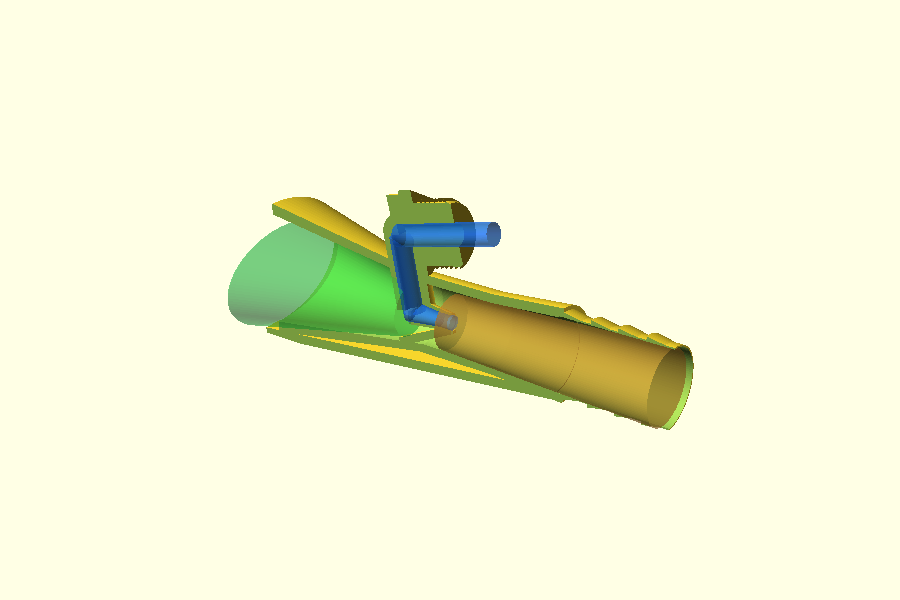
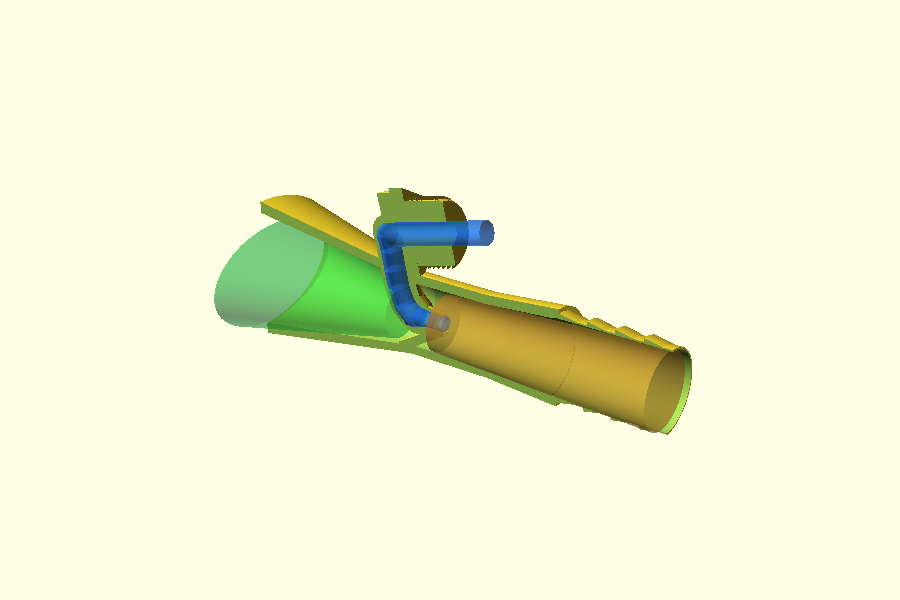
Switch X1C package to vertical no-skid print

Changed region(s): [[0.2178, 0.3, 0.7778, 0.72]]

diff --git a/DESIGN_REVIEW.md b/DESIGN_REVIEW.md
@@ -13,9 +13,10 @@ Generated outputs:
 OpenSCAD export:
 
 - OpenSCAD version: `2021.01`
-- Default STL triangles: `19756`
-- Bounding box: about `187.0 mm x 84.8 mm x 80.0 mm`
-- Estimated model volume from STL: about `98.5 cm3`
+- Default STL triangles: `27908`
+- Source-model bounding box: about `180.1 mm x 84.8 mm x 77.6 mm`
+- X1C 3MF vertical print bounds: about `84.8 mm x 77.6 mm x 180.1 mm`
+- Estimated model volume from STL: about `90.0 cm3`
 - Non-manifold edges: `0` in the regenerated STL variants and Bambu 3MF
 - Connected mesh components: `1`
 - OpenSCAD export completed without warnings
@@ -29,6 +30,7 @@ Iteration review:
 | V3 | `76 x 48 mm` mouth, `26 mm` throat, `31 mm` outlet, low rearward hose boss, `5.8 mm` recommended jet | Kept a large sand opening while increasing throat velocity and keeping the garden hose angled up/rearward away from the sand bed. |
 | V4 | Replaced the wide bottom plate with a narrow center skid, added a thin printable keel under the internal jet, and strengthened the garden-hose thread | Addresses the first print failure where the center jet printed as unsupported spaghetti and the hose thread did not survive visibly. |
 | V5 | Tightened the hose-thread dimensions to a print-fit `26.9 mm` major diameter and corrected the Bambu 3MF PETG profile metadata | Keeps the visible printable thread while avoiding an oversized male fitting, and prevents the 3MF from importing with PLA temperatures. |
+| V6 | Disabled the bottom skid by default, changed the X1C 3MF to vertical mouth-down printing, and replaced the hard pressure-feed turn with a smoother curved feed | Removes the unwanted bottom plate, minimizes support needs, and makes the pressure-water path less abrupt. |
 
 Flow path check:
 
@@ -37,7 +39,7 @@ Flow path check:
 - The flow converges into a `26 mm` suction throat with area about `531 mm2`.
 - Mouth-to-throat area ratio is about `5.4:1`, so the mouth resists clogging while the throat keeps slurry velocity high.
 - Pressure water enters through a low-profile garden-hose boss angled about `14 degrees` upward from the body axis toward the exhaust side.
-- The feed turns down to a plenum and exits through a downstream-facing jet on the centerline of the throat.
+- The feed now follows a smoother curved path into the plenum and exits through a downstream-facing jet on the centerline of the throat.
 - The `7.4 mm` nozzle tip leaves about `488 mm2` of annular suction area in the `26 mm` throat.
 - The lower printable keel under the jet is estimated to occupy about `29 mm2`, leaving about `459 mm2` of annular slurry area around the jet tip.
 - The outlet diffuses to `31 mm` and then into the nominal `1-1/4 in.` exhaust barb.
@@ -67,15 +69,14 @@ The hose connector is now low and rearward/upward, closer to the original part. 
 
 Printability review:
 
-- Print with the narrow center skid on the build plate.
-- Do not use slicer auto-orient if it stands the part upright at about `187 mm` tall. That orientation puts the exhaust path vertical; the intended print orientation is the low `187 x 85 x 80 mm` skid-down footprint.
+- Print vertically with the large pickup mouth on the build plate and the exhaust barb upward.
+- Do not use slicer auto-orient if it changes this mouth-down orientation; the intended 3MF bounds are about `85 x 78 x 180 mm`.
 - Use PETG, ASA, or ABS. Avoid PLA for hot sun and threaded hose stress.
 - Use at least `5` walls, `6` top/bottom layers, and `40-60%` infill.
-- The X1C 3MF is encoded for Bambu PETG Basic, `255 C` nozzle / `245 C` first layer, `70 C` textured PEI bed, `6` walls, `7` top/bottom layers, `45%` gyroid infill, `5 mm` brim, and build-plate-only tree supports.
-- Avoid internal supports in the slurry path or water jet path.
-- If the slicer insists on supports, use build-plate-only or painted supports under the external hose boss and thread area.
+- The X1C 3MF is encoded for Bambu PETG Basic, `255 C` nozzle / `245 C` first layer, `70 C` textured PEI bed, `6` walls, `7` top/bottom layers, `45%` gyroid infill, `5 mm` brim, and supports disabled.
+- Avoid supports in the slurry path or water jet path. If support is required, use painted external support only.
 - Seal the printed garden-hose thread and any visible layer porosity with epoxy or polyurethane if it leaks.
-- The center jet now has an internal lower keel so it should print as connected geometry rather than a floating island.
+- The old bottom skid is still available as `bottom_skid_enabled = true`, but the default model and X1C 3MF do not include it.
 
 Remaining risks:
 

diff --git a/README_PRINT_X1C.md b/README_PRINT_X1C.md
@@ -15,14 +15,14 @@ Encoded intent:
 - Process baseline: `0.20mm Strength @BBL X1C`
 - Nozzle temperature: `255 C` print, `245 C` first layer
 - Textured PEI bed temperature: `70 C`
-- Orientation: narrow center skid on build plate, model centered on X1C bed; expected bounds are about `187 x 85 x 80 mm`
+- Orientation: vertical, large pickup mouth on build plate, exhaust barb upward; expected bounds are about `85 x 78 x 180 mm`
 - Layer height: `0.20 mm`
 - Wall loops: `6`
 - Top layers: `7`
 - Bottom layers: `7`
 - Sparse infill: `45%`
 - Infill pattern: `gyroid`
-- Supports: enabled
+- Supports: disabled
 - Support type: `tree(auto)`
 - Support limit: `build plate only`
 - Support threshold angle: `35 degrees`
@@ -32,10 +32,9 @@ Encoded intent:
 Before printing:
 
 - Open the 3MF in Bambu Studio and slice it once before sending.
-- Do not use Bambu Studio auto-orient for this part. If it stands the part upright at about `187 mm` tall with the exhaust barb vertical, undo that change and return to skid-down orientation.
-- In preview, confirm supports are external, mainly under the garden-hose boss and thread.
-- Do not print if support appears inside the small water nozzle bore or blocks the suction throat.
-- Confirm the internal center jet is connected by the thin lower keel. It should not start as a floating island.
+- Do not use Bambu Studio auto-orient for this part. Keep the large mouth on the plate and the exhaust barb vertical.
+- In preview, confirm no support appears inside the mouth, suction throat, or small water nozzle bore.
+- If you manually add supports, paint them externally only.
 - If Bambu Studio drops the partial project settings, manually set the values above.
 - Use a real hose washer on the printed garden-hose thread and do not overtighten.
 

diff --git a/README.md b/README.md
@@ -30,10 +30,10 @@ Recommended starting settings:
 - Top/bottom layers: `6+`
 - Infill: `40-60%`
 - Brim: `5 mm`
-- Print the `head` with the narrow center skid on the build plate
-- Do not use slicer auto-orient if it stands the part upright; the intended print orientation is the low `187 x 85 x 80 mm` footprint with the skid down
-- Avoid supports inside the slurry path or water-jet path
-- Use build-plate-only or painted supports only under the external hose boss if your slicer requires them
+- Print vertically with the large pickup mouth on the build plate and the exhaust barb upward
+- Do not use slicer auto-orient if it changes this mouth-down orientation; the intended 3MF bounds are about `85 x 78 x 180 mm`
+- Supports should be disabled by default so the slurry path and water-jet path stay clear
+- If your slicer insists on supports, use painted supports externally only and keep support out of the mouth, throat, and nozzle
 
 Notes on fit and tuning:
 
@@ -56,3 +56,5 @@ Current design assumptions:
 - Household water pressure: roughly `40-60 psi`
 
 Because eductor tools are sensitive to nozzle geometry, expect one tuning cycle after the first print. Three nozzle-size STL variants are included so the first test does not require editing the SCAD.
+
+The old bottom skid is still available in the SCAD as `bottom_skid_enabled = true`, but it is disabled in the default model and the X1C 3MF.